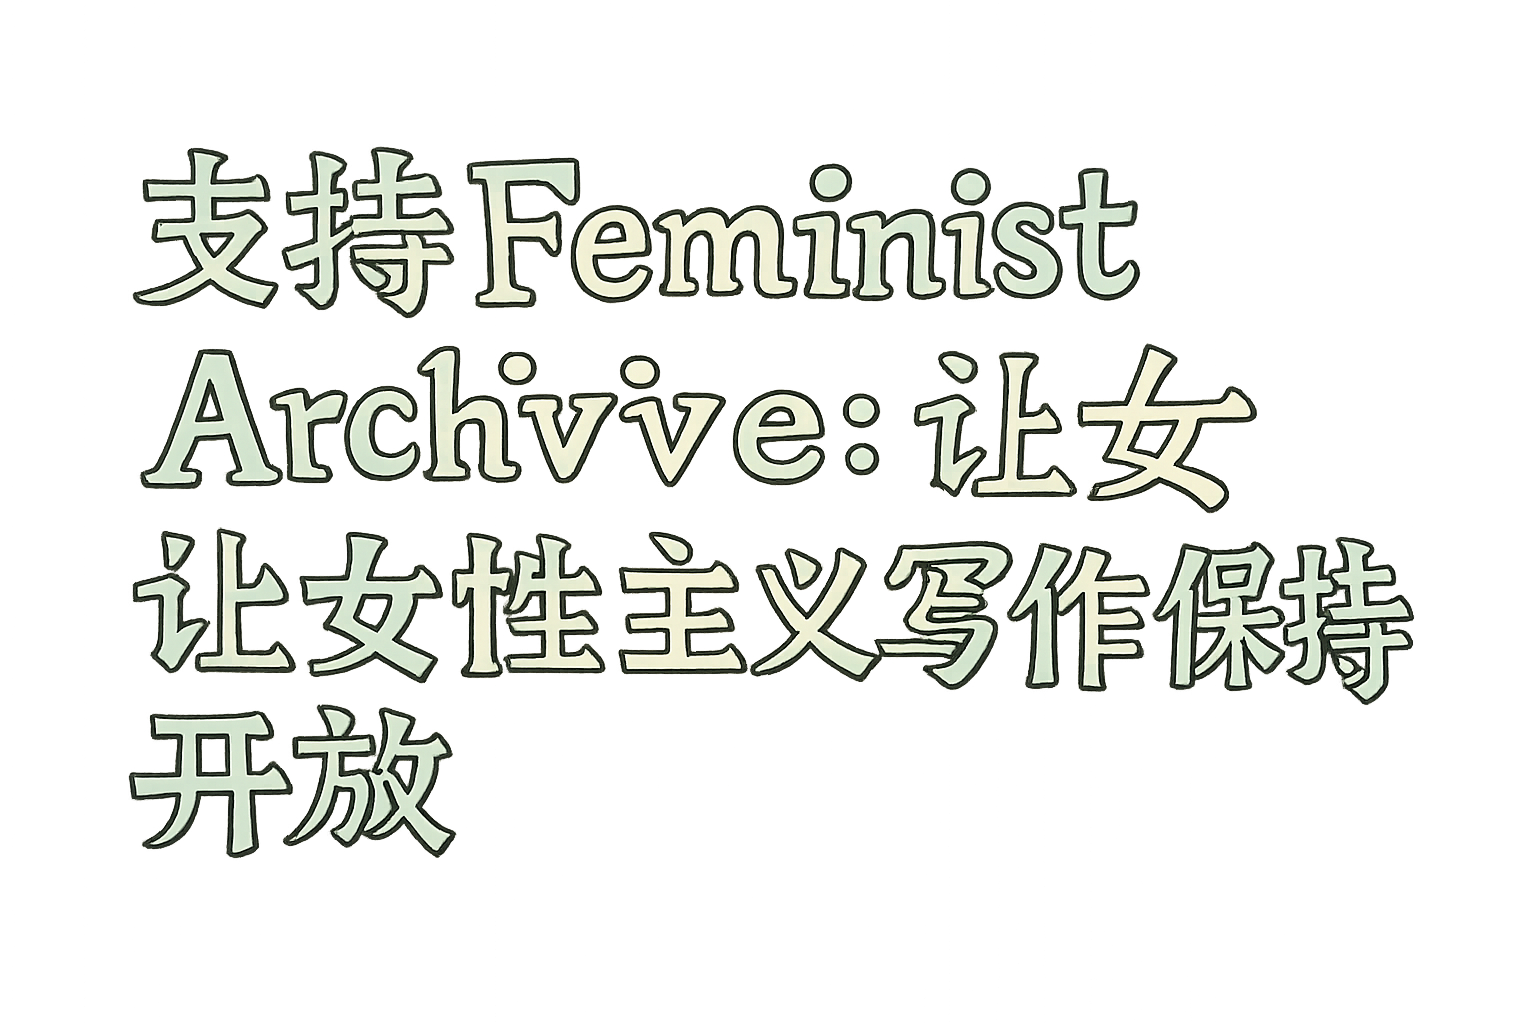
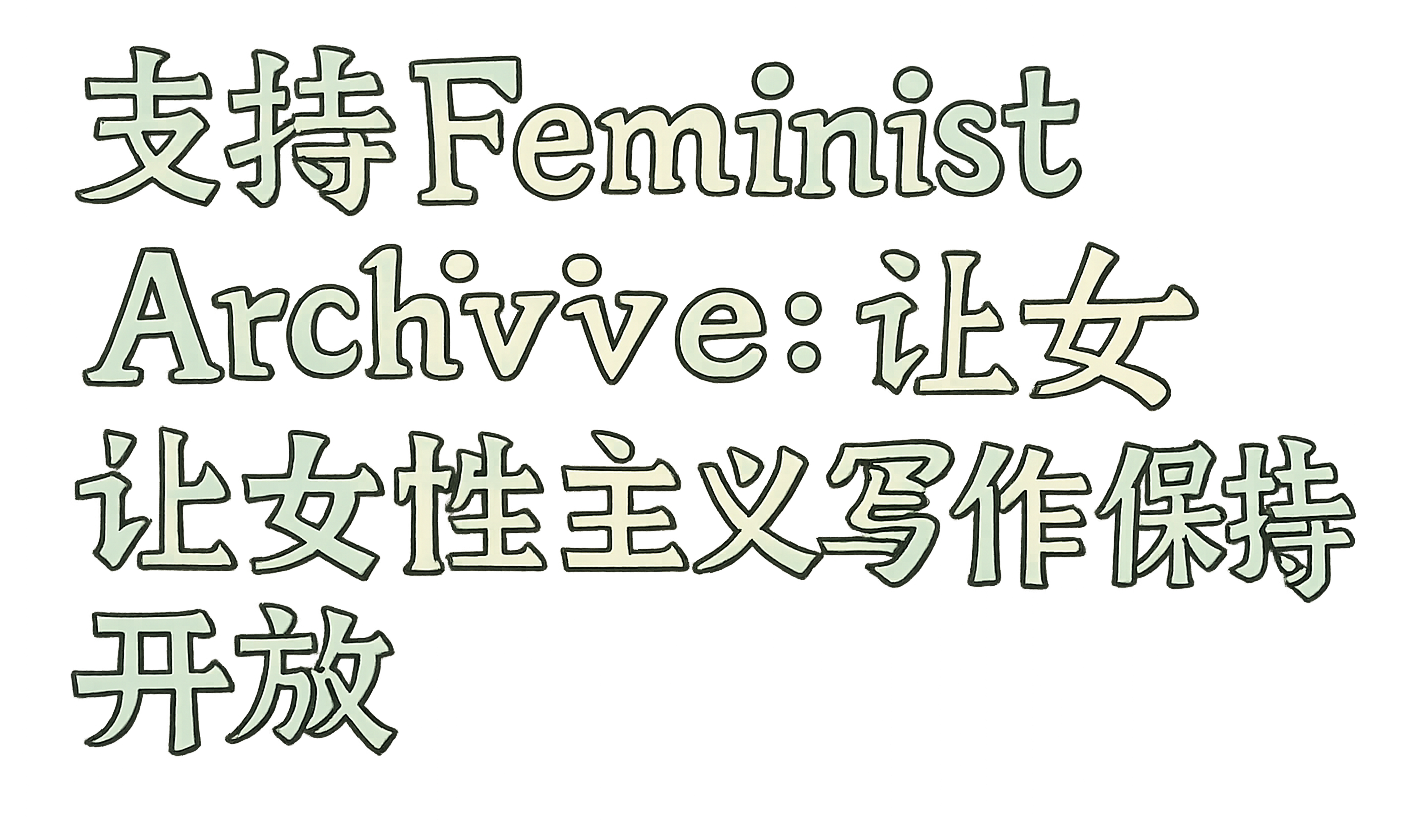
Enlarge donation slogan artwork

Changed region(s): [[0.031, 0.0305, 0.9606, 0.9146]]

diff --git a/src/index.css b/src/index.css
@@ -3767,9 +3767,9 @@ border: 1px solid #f0ddc5;
 
 .donation-slogan-image {
   display: block;
-  width: min(650px, 100%);
-  max-height: 320px;
-  margin: -8px 0 22px -10px;
+  width: min(700px, 104%);
+  max-height: 350px;
+  margin: -12px 0 18px -14px;
   object-fit: contain;
   object-position: left center;
   filter: drop-shadow(0 12px 16px rgba(42, 34, 26, 0.08));
@@ -4041,9 +4041,9 @@ border: 1px solid #f0ddc5;
   }
 
   .donation-slogan-image {
-    width: min(590px, 100%);
-    max-height: 290px;
-    margin-left: -6px;
+    width: min(620px, 104%);
+    max-height: 320px;
+    margin-left: -10px;
   }
 
   .donation-bottom-row {
@@ -13273,9 +13273,9 @@ p {
   }
 
   .donation-slogan-image {
-    width: min(430px, 108%);
-    max-height: 230px;
-    margin: -6px 0 16px -8px;
+    width: min(460px, 112%);
+    max-height: 250px;
+    margin: -8px 0 14px -10px;
   }
 
   .home-donation-panel {